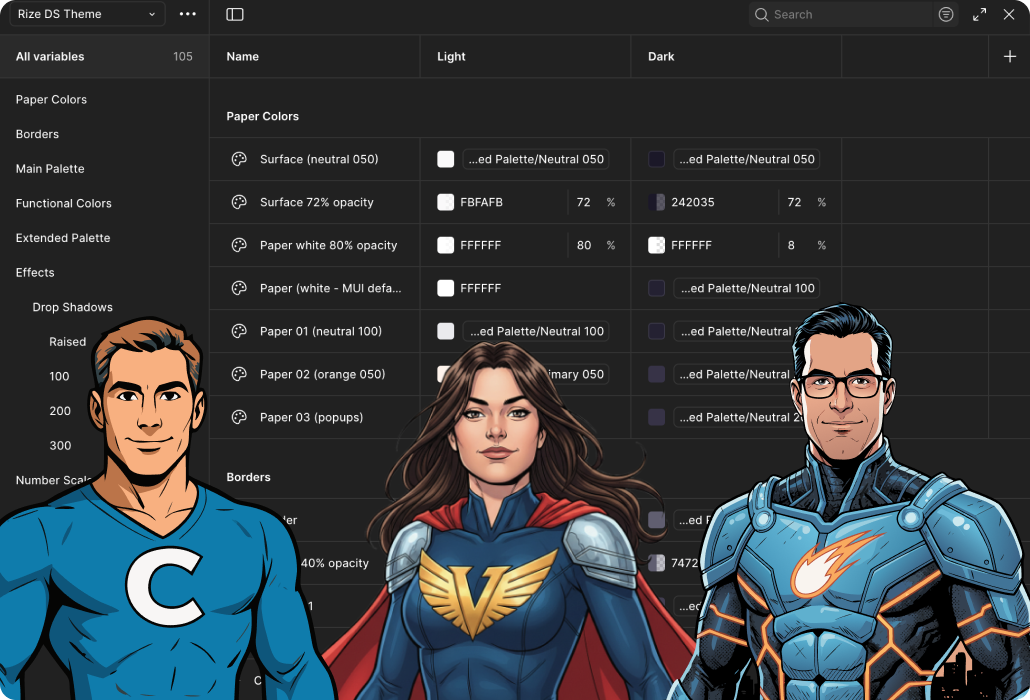
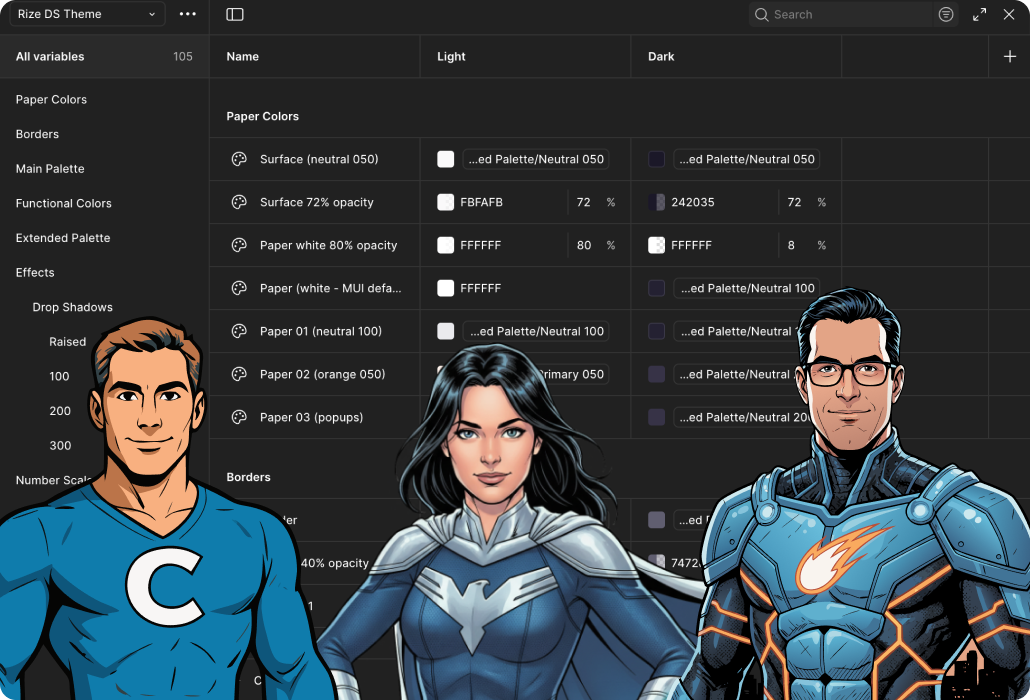
Added Chegg dark theme slide.

Changed region(s): [[0.3107, 0.39, 1.0, 1.0]]

diff --git a/src/components/CheggDelight.css b/src/components/CheggDelight.css
@@ -111,17 +111,33 @@
 .chegg-delight-dashboard-wrapper--figma-make {
   width: max-content;
   max-width: 100%;
-  height: 350px;
+  height: 400px;
   align-self: flex-start;
 }
 
 .chegg-delight-dashboard--figma-make {
   width: auto;
-  height: 350px;
+  height: 400px;
   display: block;
   object-fit: contain;
-  border-radius: 8px;
-  filter: drop-shadow(1.5px 3px 0 var(--color-near-black));
+}
+
+.chegg-delight-dashboard-stack--dark-theme {
+  width: fit-content;
+}
+
+.chegg-delight-dashboard-wrapper--dark-theme {
+  width: max-content;
+  max-width: 100%;
+  height: 400px;
+  align-self: flex-start;
+}
+
+.chegg-delight-dashboard--dark-theme {
+  width: auto;
+  height: 400px;
+  display: block;
+  object-fit: contain;
 }
 
 /* Panel 4: Confetti */

diff --git a/src/components/CheggDelight.jsx b/src/components/CheggDelight.jsx
@@ -69,6 +69,18 @@ function CheggDelight() {
               />
             </div>
           </div>
+          <div className="chegg-delight-dashboard-stack chegg-delight-dashboard-stack--dark-theme">
+            <h3 className="chegg-delight-dashboard-title">
+              Dark variables with Anthony & dev Katie:
+            </h3>
+            <div className="chegg-delight-dashboard-wrapper chegg-delight-dashboard-wrapper--dark-theme">
+              <img
+                className="chegg-delight-dashboard chegg-delight-dashboard--dark-theme"
+                src="/img/chegg/chegg-delight-dark-theme.png"
+                alt="Dark theme variables"
+              />
+            </div>
+          </div>
         </div>
       </div>
 
